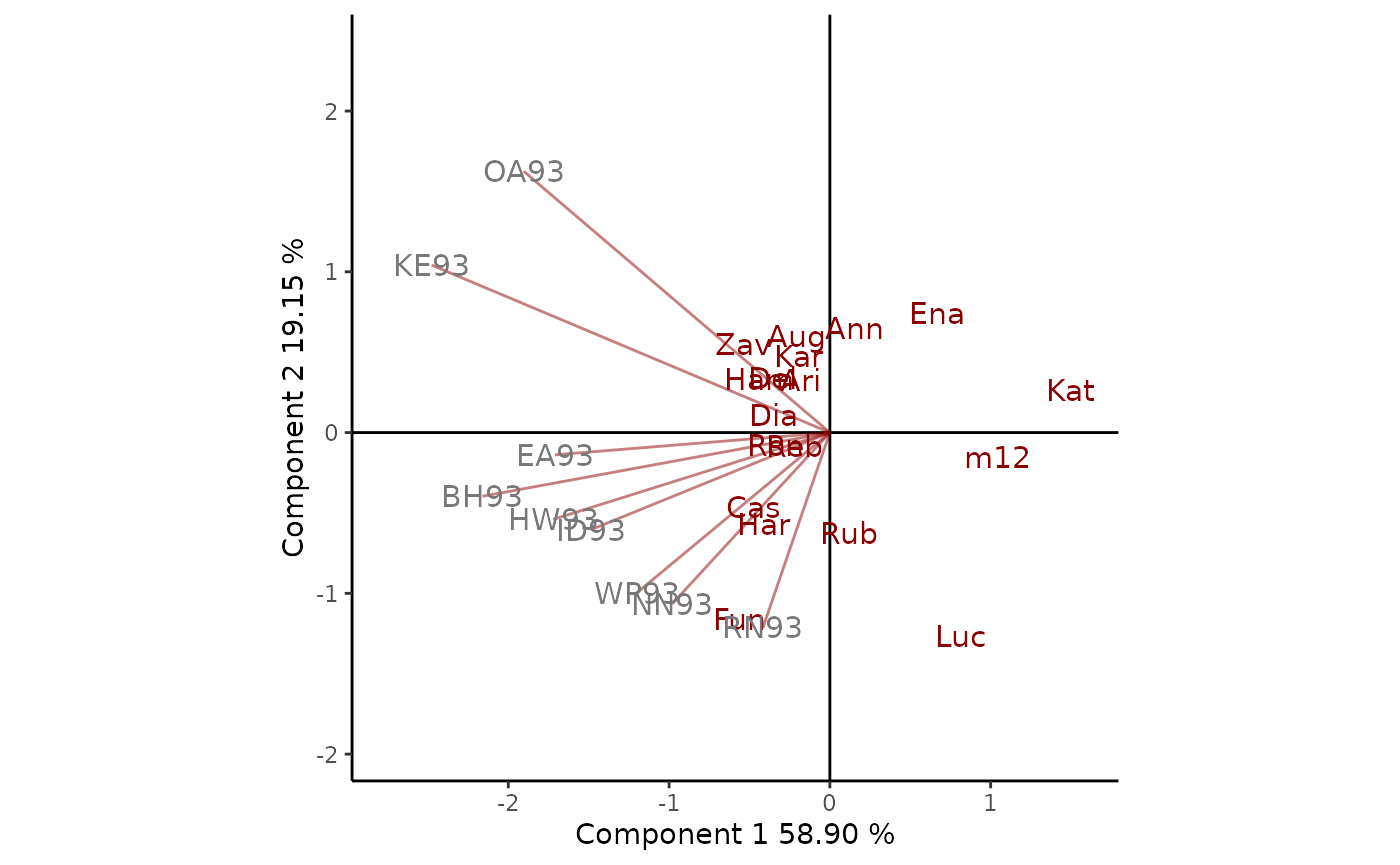
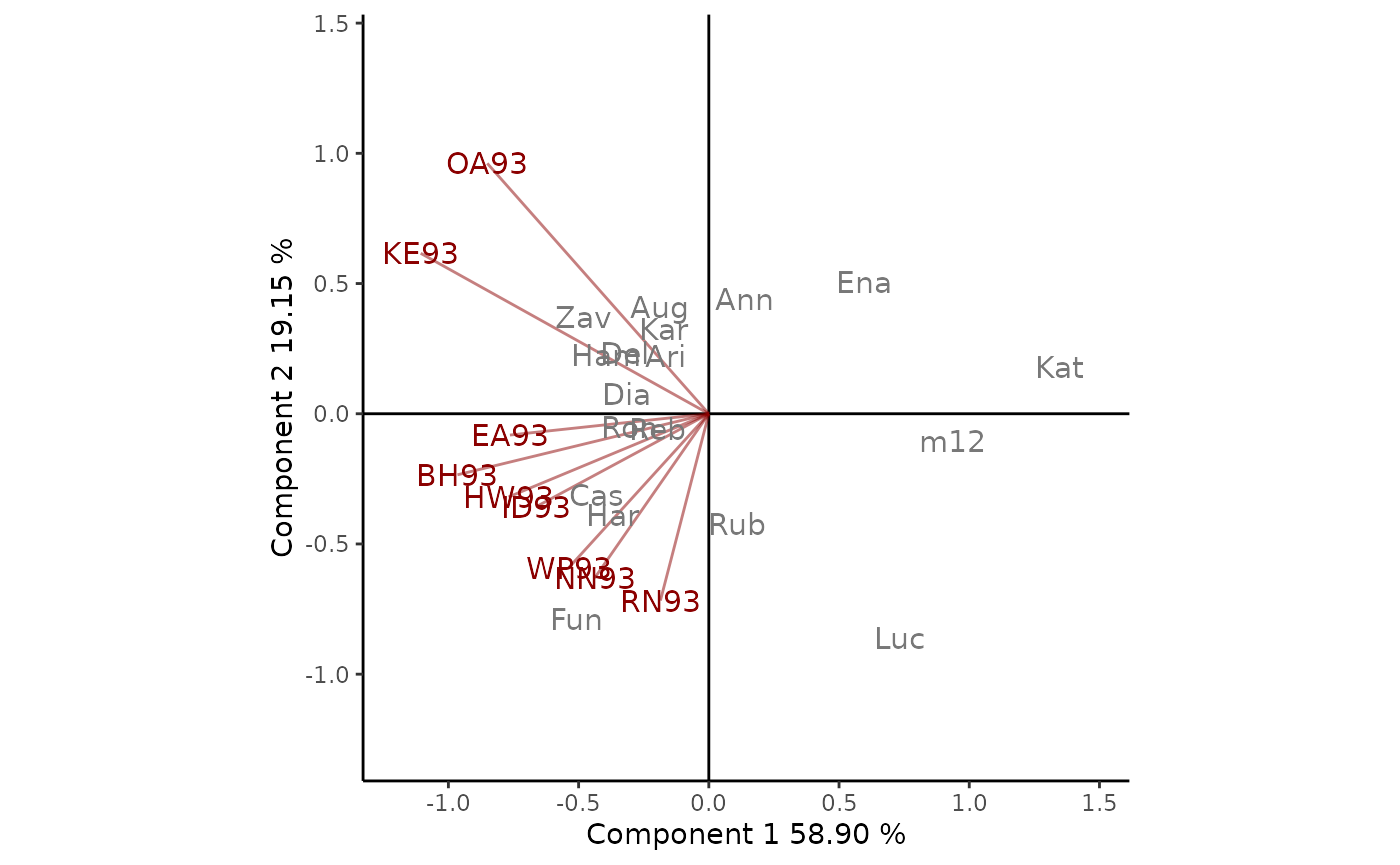
Changed default option to "symmetrical" in the SVP argument of the GGEmodel() function.

diff --git a/docs/articles/a-tutorial.html b/docs/articles/a-tutorial.html
@@ -272,7 +272,7 @@ Figure 6: polygon view of the GGE biplot, showing which cultivars presented high
 <span class="va">GGE2</span> <span class="op">&lt;-</span> <span class="fu"><a href="../reference/GGEmodel.html">GGEmodel</a></span><span class="op">(</span><span class="va">data</span>, genotype <span class="op">=</span> <span class="st">"gen"</span>, environment <span class="op">=</span> <span class="st">"env"</span>, 
                  response <span class="op">=</span> <span class="st">"yield"</span>, SVP <span class="op">=</span> <span class="st">"row"</span><span class="op">)</span>
 
-<span class="fu"><a href="../reference/GGEPlot.html">GGEPlot</a></span><span class="op">(</span><span class="va">GGE2</span>, type <span class="op">=</span> <span class="st">"Mean vs. Stability"</span>, footnote <span class="op">=</span> <span class="cn">F</span>, titles <span class="op">=</span> <span class="cn">F</span><span class="op">)</span></pre></div>
+<span class="fu"><a href="../reference/GGEPlot.html">GGEPlot</a></span><span class="op">(</span><span class="va">GGE2</span>, type <span class="op">=</span> <span class="st">"Mean vs. Stability"</span>, footnote <span class="op">=</span> <span class="cn">F</span>, titles <span class="op">=</span> <span class="cn">F</span>, sizeEnv <span class="op">=</span> <span class="fl">0</span><span class="op">)</span></pre></div>
 <div class="figure" style="text-align: center">
 <img src="a-tutorial_files/figure-html/unnamed-chunk-14-1.png" alt="Figure 7: average environment view of the GGE biplot based on genotype-focused scaling, showing mean yield and stability of genotypes. Cultivars are shown in lowercase and environments in uppercase." width="60%"><p class="caption">
 Figure 7: average environment view of the GGE biplot based on genotype-focused scaling, showing mean yield and stability of genotypes. Cultivars are shown in lowercase and environments in uppercase.
@@ -280,7 +280,7 @@ Figure 7: average environment view of the GGE biplot based on genotype-focused s
 </div>
 <p>Figure 8 compares the cultivars to the “ideal” one with the highest yield and absolute stability. This ideal cultivar is represented by a small circle and is used as a reference, as it rarely exists. The distance between cultivars and the ideal one can be used as a measure of convenience. Concentric circles help to visualize these distances. In the example, <em>Fun</em> is the closest one to the ideal crop, and therefore the most desirable one, followed by <em>Cas</em> and <em>Hay</em>, which in turn are followed by <em>Rum</em>, <em>Ham</em>, <em>Rub</em>, <em>Zav</em>, <em>Del</em> and <em>Reb</em>, etc.</p>
 <div class="sourceCode" id="cb16"><pre class="downlit">
-<span class="fu"><a href="../reference/GGEPlot.html">GGEPlot</a></span><span class="op">(</span><span class="va">GGE2</span>, type <span class="op">=</span> <span class="st">"Ranking Genotypes"</span>, footnote <span class="op">=</span> <span class="cn">F</span>, titles <span class="op">=</span> <span class="cn">F</span><span class="op">)</span></pre></div>
+<span class="fu"><a href="../reference/GGEPlot.html">GGEPlot</a></span><span class="op">(</span><span class="va">GGE2</span>, type <span class="op">=</span> <span class="st">"Ranking Genotypes"</span>, footnote <span class="op">=</span> <span class="cn">F</span>, titles <span class="op">=</span> <span class="cn">F</span>, sizeEnv <span class="op">=</span> <span class="fl">0</span><span class="op">)</span></pre></div>
 <div class="figure" style="text-align: center">
 <img src="a-tutorial_files/figure-html/unnamed-chunk-15-1.png" alt="Figure 8: Classification of genotypes with respect to the ideal genotype. Genotype-focused scaling is used. Cultivars are shown in lowercase and environments in uppercase." width="60%"><p class="caption">
 Figure 8: Classification of genotypes with respect to the ideal genotype. Genotype-focused scaling is used. Cultivars are shown in lowercase and environments in uppercase.

diff --git a/docs/news/index.html b/docs/news/index.html
@@ -136,6 +136,7 @@
 <a href="#geneticae-019000" class="anchor"></a>geneticae 0.1.9000<small> Unreleased </small>
 </h1>
 <p>This is a development version</p>
+<p>Changed default option to “symmetrical” in the SVP argument of the GGEmodel() function.</p>
 </div>
     <div id="geneticae-010" class="section level1">
 <h1 class="page-header" data-toc-text="0.1.0">

diff --git a/NEWS.md b/NEWS.md
@@ -2,6 +2,8 @@
 
 This is a development version
 
+Changed default option to "symmetrical" in the SVP argument of the GGEmodel() function.
+
 # geneticae 0.1.0
 
 First submission to CRAN.
